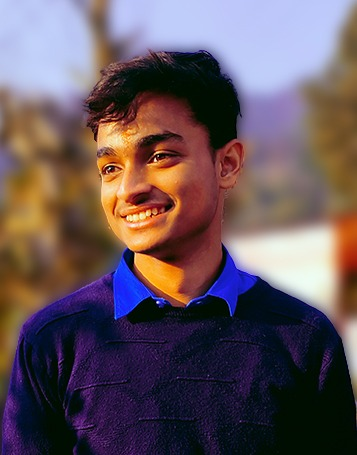
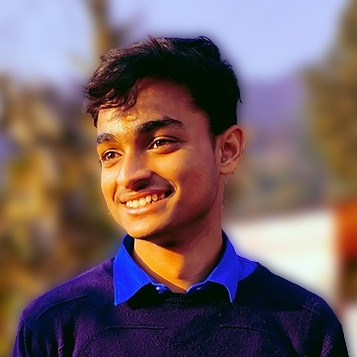
minor tweaks

diff --git a/style.css b/style.css
@@ -1,4 +1,4 @@
-:root{
+:root {
     --color1: #141E46;
     --color2: #5C5470;
     --color3: #B9B4C7;
@@ -12,18 +12,18 @@
     padding: 0px;
 }
 
-section{
+section {
     display: flex;
     justify-content: center;
 }
 
-.main_width{
+.main_width {
     width: min(120ch, calc(100% - 60px));
 }
 
 
 h1 {
-    font-weight:600;
+    font-weight: 600;
     font-size: 2rem;
 }
 
@@ -45,7 +45,7 @@ header {
     z-index: 1000;
 }
 
-header > div {
+header>div {
     width: fit-content;
 }
 
@@ -79,7 +79,7 @@ header .left .text2 {
     font-size: 2rem;
 }
 
-header .left .text2 span{
+header .left .text2 span {
     font-weight: 600;
 }
 
@@ -137,7 +137,7 @@ footer .bottom {
     font-size: 0.8rem;
 }
 
-footer .top .right ul{
+footer .top .right ul {
     list-style-type: none;
     display: flex;
     gap: 4px;
@@ -145,21 +145,21 @@ footer .top .right ul{
     overflow-x: scroll;
 }
 
-footer .top .right ul li{
+footer .top .right ul li {
     display: flex;
 }
 
-footer .top .right ul li a{
+footer .top .right ul li a {
     padding: 7px;
     display: flex;
     border-radius: 100%;
 }
 
-footer .top .right ul li a:hover{
+footer .top .right ul li a:hover {
     background-color: #FFFFFF22;
 }
 
-footer .top .right ul li img{
+footer .top .right ul li img {
     height: 2.2rem;
 }
 
@@ -221,7 +221,7 @@ footer .top .right ul li img{
 
 /* Recent Events */
 
-.RecentEvents ul{
+.RecentEvents ul {
     display: flex;
     overflow-x: scroll;
 }
@@ -283,11 +283,9 @@ footer .top .right ul li img{
     max-width: min(170px, 90%);
     aspect-ratio: 1;
     border-radius: 100%; 
-
     position: relative;
     display: inline-block;
-
-}
+    }
 
 .TeamMembers ul li a .overlay {
   position: absolute;
@@ -317,7 +315,6 @@ footer .top .right ul li img{
     width: 100%;
     aspect-ratio: 1;
     border-radius: 100%;
-    z-index: 1;
 }
 
 .TeamMembers ul li p{
